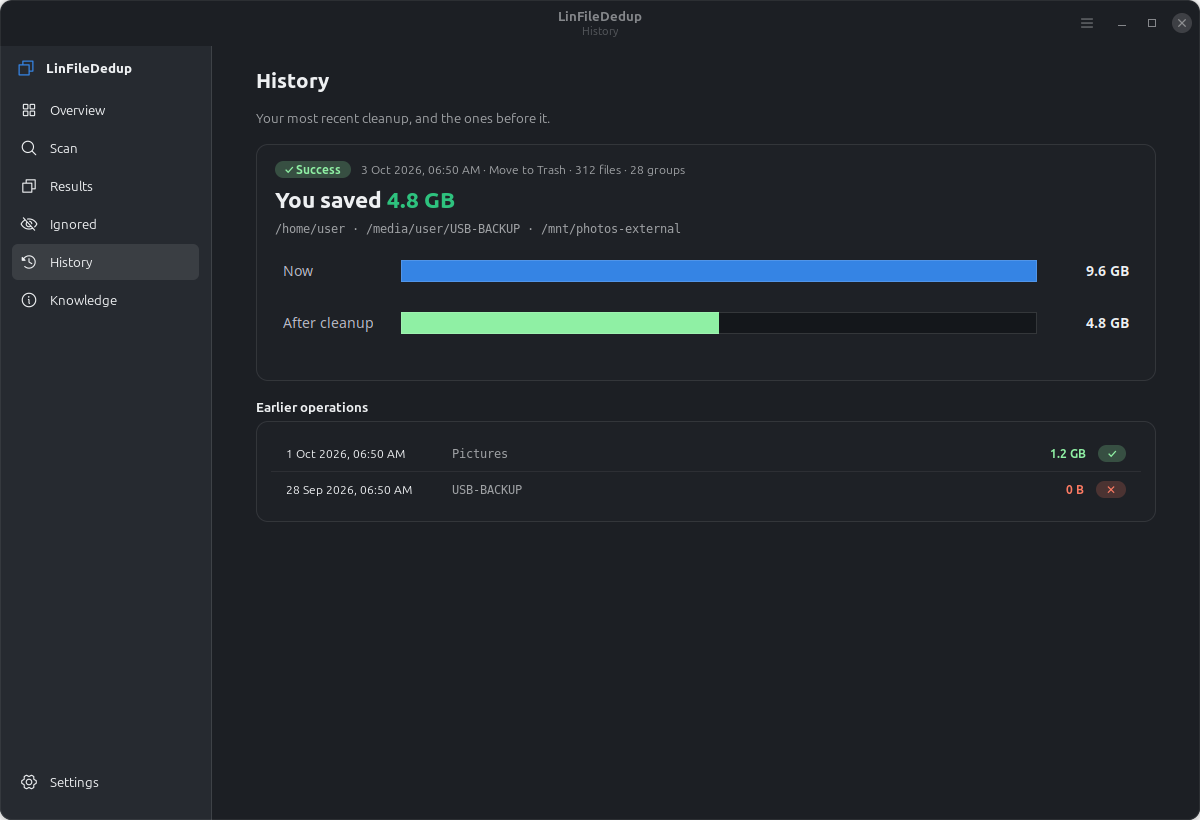
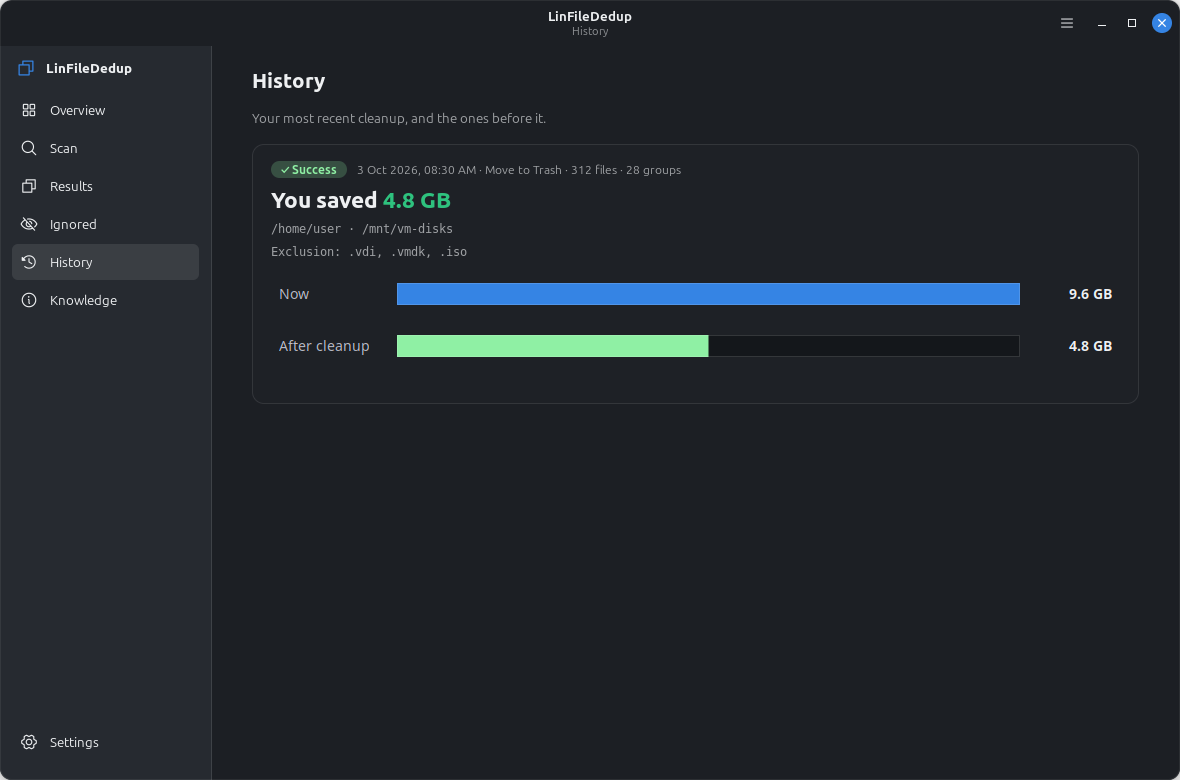
Rename keep-rules card to "Built-in file rules" (collapsed); surface exclusions
- Results: the keep/delete explainer is renamed "Built-in file rules" and
  is collapsed by default (Gtk.Expander).
- Exclusions are now a single source of truth (settings.exclude_types),
  saved immediately when the Scan-page boxes/field change.
- Ignored page gains an "Excluded file types" section listing each excluded
  extension with "Resume scanning" (removes it and syncs the Scan page UI).
- History records the exclusions per operation and shows an
  "Exclusion: .vdi, .vmdk, …" line on the latest-operation card.
- Docs (FEATURES §6.2/§13/§14), README screenshots refreshed, changelog.
  Tests: history exclusions round-trip. 75 passing.

diff --git a/src/linfilededuplication/ui/pages/scan.py b/src/linfilededuplication/ui/pages/scan.py
@@ -156,21 +156,31 @@ class ScanPage(BasePage):
         return card
 
     def _exclude_section(self) -> Gtk.Widget:
-        """Exclude extensions from the scan — a free-text field plus one-tap large-type boxes."""
-        s = self.app.settings
+        """Exclude extensions from the scan — a free-text field plus one-tap large-type boxes.
+        Reads/writes a single list (``settings.exclude_types``) so the Ignored page can show and
+        clear the same exclusions."""
         self._exclude_checks: dict[Gtk.CheckButton, list[str]] = {}
+        excl = {e.lower() for e in getattr(self.app.settings, "exclude_types", [])}
         box = Gtk.Box(orientation=Gtk.Orientation.VERTICAL, spacing=6)
         box.set_margin_top(14)
         sep = Gtk.Separator()
         sep.set_margin_bottom(8)
         box.append(sep)
 
+        # extensions covered by a (fully-selected) large-type box vs. free-text ones
+        large_exts: set = set()
+        for t in filetypes.LARGE_TYPES:
+            if all(e in excl for e in t["exts"]):
+                large_exts.update(t["exts"])
+        free = sorted(excl - large_exts)
+
         row = Gtk.Box(spacing=8)
         lbl = Gtk.Label(label=_("Exclusion"))
         lbl.add_css_class("app-small")
         self._exclude_entry = Gtk.Entry(hexpand=True)
         self._exclude_entry.set_placeholder_text(".vdi, .iso, .img, .bin")
-        self._exclude_entry.set_text(getattr(s, "exclude_extensions", ""))
+        self._exclude_entry.set_text(", ".join(free))
+        self._exclude_entry.connect("changed", lambda _e: self._save_exclusions())
         row.append(lbl)
         row.append(self._exclude_entry)
         row.append(InfoHint(self.window, "exclude-extensions"))
@@ -184,11 +194,11 @@ class ScanPage(BasePage):
 
         flow = Gtk.FlowBox(selection_mode=Gtk.SelectionMode.NONE, min_children_per_line=2,
                            max_children_per_line=8, column_spacing=16, row_spacing=4)
-        saved_large = set(getattr(s, "exclude_large", []))
         for t in filetypes.LARGE_TYPES:
             cb = Gtk.CheckButton(label=t["label"])
-            cb.set_active(t["label"] in saved_large)
+            cb.set_active(all(e in excl for e in t["exts"]))
             self._exclude_checks[cb] = t["exts"]
+            cb.connect("toggled", lambda _c: self._save_exclusions())
             flow.append(cb)
         box.append(flow)
         return box
@@ -203,6 +213,27 @@ class ScanPage(BasePage):
         text = self._exclude_entry.get_text() if hasattr(self, "_exclude_entry") else ""
         exts += [p for p in re.split(r"[,\s]+", text.strip()) if p]
         return filetypes.normalize(exts)
+
+    def _save_exclusions(self) -> None:
+        if getattr(self, "_loading_exclusions", False):
+            return
+        self.app.settings.exclude_types = self._selected_exclude_types()
+        self.app.settings.save()
+
+    def _load_exclusions(self, exts: list[str]) -> None:
+        """Refresh the exclusion UI from a list (used when the Ignored page clears one)."""
+        if not hasattr(self, "_exclude_checks"):
+            return
+        self._loading_exclusions = True
+        excl = {e.lower() for e in exts}
+        large_exts: set = set()
+        for cb, cb_exts in self._exclude_checks.items():
+            on = all(e in excl for e in cb_exts)
+            cb.set_active(on)
+            if on:
+                large_exts.update(cb_exts)
+        self._exclude_entry.set_text(", ".join(sorted(excl - large_exts)))
+        self._loading_exclusions = False
 
     def _category_column(self, cat: dict, saved_set: set[str]) -> Gtk.Widget:
         col = Gtk.Box(orientation=Gtk.Orientation.VERTICAL, spacing=4)
@@ -496,8 +527,7 @@ class ScanPage(BasePage):
         s.min_size_mb = max(1, int(self.min_row.get_value()))
         s.file_types = self._selected_file_types()
         s.custom_extensions = self._ext_entry.get_text().strip()
-        s.exclude_extensions = self._exclude_entry.get_text().strip()
-        s.exclude_large = [cb.get_label() for cb in self._exclude_checks if cb.get_active()]
+        s.exclude_types = self._selected_exclude_types()
         s.save()
         self.window.start_scan(self._options())
 

diff --git a/src/linfilededuplication/ui/pages/ignored.py b/src/linfilededuplication/ui/pages/ignored.py
@@ -29,15 +29,17 @@ class IgnoredPage(BasePage):
         head.append(InfoHint(self.window, "ignored-resume"))
         card.append(head)
         body = Gtk.Label(xalign=0.0, wrap=True, label=_(
-            "A record of every file and folder you chose to Ignore. Ignored items are skipped in "
-            "all scans so you don't have to review them again. Resume any item to include it in "
-            "future scans — resumed files and locations are removed from this list."))
+            "A record of every file and folder you chose to Ignore, and the file types you "
+            "excluded on the Scan page. These are skipped in all scans so you don't have to review "
+            "them again. Resume any item to include it in future scans — resumed entries are "
+            "removed from this list."))
         body.add_css_class("app-dim")
         card.append(body)
         self.add(card)
 
         self._folders_wrap, self._folders_list = self._section(_("Ignored folders"))
         self._files_wrap, self._files_list = self._section(_("Ignored files"))
+        self._exclude_wrap, self._exclude_list = self._section(_("Excluded file types"))
 
         self.empty_lbl = Gtk.Label(xalign=0.0, wrap=True, label=_(
             "Nothing is ignored yet. Use “Ignore Files” on a Results group, or “Ignore Folder” "
@@ -63,11 +65,14 @@ class IgnoredPage(BasePage):
         s = self.app.settings
         folders = sorted(getattr(s, "ignored_folders", []))
         files = sorted(getattr(s, "ignored_paths", []))
+        excl = sorted(getattr(s, "exclude_types", []))
         self._fill(self._folders_list, folders, is_dir=True)
         self._fill(self._files_list, files, is_dir=False)
+        self._fill_exclude(self._exclude_list, excl)
         self._folders_wrap.set_visible(bool(folders))
         self._files_wrap.set_visible(bool(files))
-        self.empty_lbl.set_visible(not folders and not files)
+        self._exclude_wrap.set_visible(bool(excl))
+        self.empty_lbl.set_visible(not folders and not files and not excl)
 
     def _fill(self, box: Gtk.Box, items: list[str], is_dir: bool) -> None:
         child = box.get_first_child()
@@ -95,6 +100,42 @@ class IgnoredPage(BasePage):
         row.append(name)
         row.append(btn)
         return row
+
+    def _fill_exclude(self, box: Gtk.Box, exts: list[str]) -> None:
+        child = box.get_first_child()
+        while child is not None:
+            nxt = child.get_next_sibling()
+            box.remove(child)
+            child = nxt
+        for e in exts:
+            box.append(self._exclude_row(e))
+
+    def _exclude_row(self, ext: str) -> Gtk.Widget:
+        row = Gtk.Box(spacing=12)
+        row.add_css_class("app-file-row")
+        ic = icon("app-nav-ignored-symbolic", 18)
+        ic.add_css_class("app-dim")
+        name = Gtk.Label(label=ext, xalign=0.0, hexpand=True)
+        name.add_css_class("app-mono")
+        name.add_css_class("app-small")
+        btn = Gtk.Button(label=_("Resume scanning"))
+        btn.set_valign(Gtk.Align.CENTER)
+        btn.connect("clicked", lambda _b, x=ext: self._resume_exclusion(x))
+        row.append(ic)
+        row.append(name)
+        row.append(btn)
+        return row
+
+    def _resume_exclusion(self, ext: str) -> None:
+        s = self.app.settings
+        cur = [e for e in getattr(s, "exclude_types", []) if e.lower() != ext.lower()]
+        s.exclude_types = cur
+        s.save()
+        scan = self.window.pages.get("scan")
+        if scan is not None and hasattr(scan, "_load_exclusions"):
+            scan._load_exclusions(cur)                # keep the Scan page UI in sync
+        self.window.toast(_("Resumed — {x} will be scanned again").format(x=ext))
+        self._refresh()
 
     def _resume(self, path: str, is_dir: bool) -> None:
         s = self.app.settings

diff --git a/src/linfilededuplication/ui/pages/results.py b/src/linfilededuplication/ui/pages/results.py
@@ -182,14 +182,18 @@ class ResultsPage(BasePage):
         card = Gtk.Box(orientation=Gtk.Orientation.VERTICAL, spacing=6)
         card.add_css_class("app-card")
         card.add_css_class("app-savings")
-        title = Gtk.Label(label=_("How LinFileDedup decides what to keep"), xalign=0.0)
+        expander = Gtk.Expander()
+        expander.set_expanded(False)                 # collapsed by default
+        title = Gtk.Label(label=_("Built-in file rules"), xalign=0.0)
         title.add_css_class("app-group-title")
+        expander.set_label_widget(title)
+        content = Gtk.Box(orientation=Gtk.Orientation.VERTICAL, spacing=6)
+        content.set_margin_top(10)
         sub = Gtk.Label(xalign=0.0, wrap=True, label=_(
             "One file in every group is always kept — only the extra copies are ever removed."))
         sub.add_css_class("app-dim")
         sub.add_css_class("app-small")
-        card.append(title)
-        card.append(sub)
+        content.append(sub)
         g, r = "#2ec27e", "#e2564b"
         rules = [
             _("<b>Same size and type.</b> The <span foreground=\"{g}\">newest</span> copy is kept; "
@@ -217,7 +221,9 @@ class ResultsPage(BasePage):
             rowb.append(num)
             rowb.append(body)
             grid.append(rowb)
-        card.append(grid)
+        content.append(grid)
+        expander.set_child(content)
+        card.append(expander)
         return card
 
     def _show_savings(self, fin) -> None:
@@ -600,6 +606,7 @@ class ResultsPage(BasePage):
         fin = getattr(self, "_last_fin", None)
         HistoryStore().add(HistoryEntry(
             sources=list(getattr(self.window, "last_scan_roots", [])),
+            exclusions=list(getattr(self.window, "last_scan_exclusions", [])),
             action=action, ok=(done > 0), error=(errors[0] if errors else ""),
             before_bytes=(fin.occupied_bytes if fin else 0),
             freed_bytes=freed, files_removed=done,

diff --git a/src/linfilededuplication/config/settings.py b/src/linfilededuplication/config/settings.py
@@ -38,8 +38,7 @@ class Settings:
     exclusions: list[str] = field(default_factory=lambda: list(DEFAULT_ON))
     file_types: list[str] = field(default_factory=list)   # [] = all types
     custom_extensions: str = ""                           # extra extensions, comma-separated
-    exclude_extensions: str = ""                          # extensions to exclude, comma-separated
-    exclude_large: list[str] = field(default_factory=list)  # checked large-type labels to exclude
+    exclude_types: list[str] = field(default_factory=list)  # extensions excluded from scans
     ignored_paths: list[str] = field(default_factory=list)   # files the user chose to ignore
     ignored_folders: list[str] = field(default_factory=list)  # folders the user chose to ignore
 

diff --git a/src/linfilededuplication/ui/pages/history.py b/src/linfilededuplication/ui/pages/history.py
@@ -93,6 +93,14 @@ class HistoryPage(BasePage):
         srcs.add_css_class("app-mono")
         card.append(srcs)
 
+        if e.exclusions:
+            exc = Gtk.Label(xalign=0.0, wrap=True, label=_("Exclusion: {x}").format(
+                x=", ".join(e.exclusions)))
+            exc.add_css_class("app-dim")
+            exc.add_css_class("app-small")
+            exc.add_css_class("app-mono")
+            card.append(exc)
+
         if e.before_bytes > 0:
             chart = SpaceChart()
             chart.set_values(e.before_bytes, e.freed_bytes)   # Now = before, After = after cleanup

diff --git a/tests/core/test_history.py b/tests/core/test_history.py
@@ -33,3 +33,11 @@ def test_store_tolerates_garbage(tmp_path):
     p = tmp_path / "history.json"
     p.write_text("{ not valid json")
     assert HistoryStore(p).load() == []
+
+
+def test_entry_exclusions_roundtrip(tmp_path):
+    from linfilededuplication.config.history import HistoryEntry
+    e = HistoryEntry(sources=["/a"], exclusions=[".vdi", ".iso"], before_bytes=100, freed_bytes=40)
+    back = HistoryEntry.from_dict(e.to_dict())
+    assert back.exclusions == [".vdi", ".iso"]
+    assert back.after_bytes == 60

diff --git a/src/linfilededuplication/ui/window.py b/src/linfilededuplication/ui/window.py
@@ -106,6 +106,7 @@ class MainWindow(Adw.ApplicationWindow):
     # --- scan glue -------------------------------------------------------
     def start_scan(self, opts) -> None:
         self.last_scan_roots = opts.all_roots()     # remembered for History entries
+        self.last_scan_exclusions = list(getattr(opts, "exclude_types", []))
         self.show_page("scan")                      # stay on Scan to watch per-source rings
         self.controller.start(opts)
 

diff --git a/src/linfilededuplication/config/history.py b/src/linfilededuplication/config/history.py
@@ -26,6 +26,7 @@ def _history_path() -> Path:
 class HistoryEntry:
     when: float = field(default_factory=time.time)   # epoch seconds
     sources: list[str] = field(default_factory=list)  # roots that were scanned
+    exclusions: list[str] = field(default_factory=list)  # extensions excluded from this scan
     action: str = "trash"                            # "trash" | "hardlink"
     ok: bool = True
     error: str = ""

diff --git a/docs/FEATURES.md b/docs/FEATURES.md
@@ -236,9 +236,9 @@ At the top of a finished scan: a headline sentiment **"You can free up N GB"** (
 Bars are square-cornered recessed meters (no rounding, no gridlines). Backed by a new
 `Finished.occupied_bytes`.
 
-### 6.2 "How LinFileDedup decides what to keep" card
-A persistent explainer listing the §4 keep/delete rules, with keep words in green and delete
-words in red. Makes the automatic decisions transparent.
+### 6.2 "Built-in file rules" card
+A **collapsed-by-default** expander listing the §4 keep/delete rules, with keep words in green and
+delete words in red. Expand it to see exactly how the keeper is chosen.
 
 ### 6.3 Action bar (above the findings, below the info card)
 - **Nothing selected / N files selected · reclaim X** — live summary.
@@ -399,6 +399,9 @@ the UI decides how to render, keeping `core/` GTK-free.
 A dedicated sidebar page (eye-slash icon) that tracks everything the user chose to skip:
 - A **top explainer card** with an InfoHint (*"Resumed files and locations are removed from this
   list"*).
+- **Excluded file types** section listing every extension excluded on the Scan page
+  (`settings.exclude_types`), each with **Resume scanning** that un-excludes it and syncs the Scan
+  page UI.
 - **Ignored folders** and **Ignored files** sections, each row showing the path and a **Resume
   scanning** button that removes it from the ignore list so the next scan considers it again.
 - Reads/writes `settings.ignored_folders` / `settings.ignored_paths`; refreshes on show.
@@ -408,12 +411,13 @@ A dedicated sidebar page (eye-slash icon) that tracks everything the user chose 
 ## 14. Scan History (`config/history.py`, `ui/pages/history.py`)
 
 Every **confirmed removal** (Move to Trash / Delete All Duplicates / Hard-link), success or
-failure, is recorded as a `HistoryEntry` `{ when, sources, action, ok, error, before_bytes,
-freed_bytes, files_removed, groups }` in a tolerant JSON store at
+failure, is recorded as a `HistoryEntry` `{ when, sources, exclusions, action, ok, error,
+before_bytes, freed_bytes, files_removed, groups }` in a tolerant JSON store at
 `~/.local/state/com.mensuramedia.linfilededuplication/history.json` (newest-first, capped). The
-**History page** shows the **last operation prominently** — date, the **sources** scanned, a
-**before/after bar pair** (reusing `SpaceChart`), a **"You saved N GB"** headline, and a
-success/failure chip — with **earlier operations** listed below. `before_bytes` is the scan's
+**History page** shows the **last operation prominently** — date, the **sources** scanned, an
+**"Exclusion: .vdi, .vmdk, …"** line when extensions were excluded, a **before/after bar pair**
+(reusing `SpaceChart`), a **"You saved N GB"** headline, and a success/failure chip — with
+**earlier operations** listed below. `before_bytes` is the scan's
 `Finished.occupied_bytes`; `freed_bytes` is what the action actually reclaimed;
 `after_bytes = before − freed`.
 

diff --git a/changelog.md b/changelog.md
@@ -60,3 +60,4 @@ Append-only. Format: `| ISO-8601 datetime | description |`.
 | 2026-10-03 | Uniform CC BY-NC 4.0 license across the public lin-* apps; Phosphor MIT license added to apps that bundle the icons and missing it. (Repo-ops; see git history of the other repos.) |
 | 2026-10-03 | Fix Stop appearing to hang on a large-file (e.g. .vdi) scan: hashing is now cancel-aware — `hashers.full_hash`/`bytes_equal` check the cancel flag every 1 MB chunk and raise `Cancelled`, and `find_exact_groups` bails promptly (also skips the image/advanced passes once cancelled), so Stop is honoured mid-read instead of after the whole file. Added usage logging: scan start (sources/tier/options), large-file hashing, cancel request, scan finished/cancelled with counts + duration, and Start/Stop clicks. |
 | 2026-10-03 | Scan page: an "Exclusion" field under File types — a free-text extension list plus one-tap boxes for common large types (VDI/VMDK/VHD/QCOW2/ISO/IMG/BIN/DMG) to skip entirely (`ScanOptions.exclude_types`; precedence over the include filter; `settings.exclude_extensions`/`exclude_large`). File-type checkboxes made lighter (600 weight) and slightly smaller. |
+| 2026-10-03 | Results "How LinFileDedup decides what to keep" card renamed to "Built-in file rules" and collapsed by default (Gtk.Expander). Excluded file types now appear on the Ignored page (with Resume scanning, synced to the Scan page) and are recorded per operation in History as an "Exclusion: .vdi, .vmdk, …" line (`HistoryEntry.exclusions`). Exclusions unified into a single `settings.exclude_types`, saved immediately on change. |
